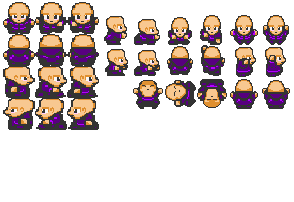
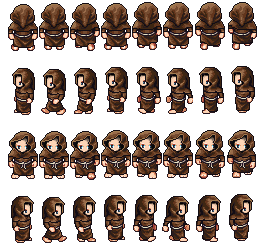
change character and enemy sprites

diff --git a/sprites.py b/sprites.py
@@ -8,10 +8,10 @@ class Spritesheet:
     def __init__(self, file):
         self.sheet = pygame.image.load(file).convert()
 
-    def get_sprite(self, x, y, width, height):
+    def get_sprite(self, x, y, width, height, color=WHITE):
         sprite = pygame.Surface([width, height])
         sprite.blit(self.sheet, (0, 0), (x, y, width, height))
-        sprite.set_colorkey(BLACK)
+        sprite.set_colorkey(color)
         return sprite
 
 
@@ -39,21 +39,37 @@ class Player(pygame.sprite.Sprite):
         self.rect.x = self.x
         self.rect.y = self.y
 
-        self.down_animations = [self.game.character_spritesheet.get_sprite(3, 2, self.width, self.height),
-                                self.game.character_spritesheet.get_sprite(35, 2, self.width, self.height),
-                                self.game.character_spritesheet.get_sprite(68, 2, self.width, self.height)]
+        self.up_animations = [self.game.character_spritesheet.get_sprite(0, 0, 38, 52),
+                              self.game.character_spritesheet.get_sprite(38, 0, 32, 50),
+                              self.game.character_spritesheet.get_sprite(69, 0, 32, 50),
+                              self.game.character_spritesheet.get_sprite(131, 0, 32, 50),
+                              self.game.character_spritesheet.get_sprite(162, 0, 32, 50),
+                              self.game.character_spritesheet.get_sprite(194, 0, 32, 50),
+                              self.game.character_spritesheet.get_sprite(228, 0, 32, 50)]
 
-        self.up_animations = [self.game.character_spritesheet.get_sprite(3, 34, self.width, self.height),
-                              self.game.character_spritesheet.get_sprite(35, 34, self.width, self.height),
-                              self.game.character_spritesheet.get_sprite(68, 34, self.width, self.height)]
+        self.left_animations = [self.game.character_spritesheet.get_sprite(0, 65, 38, 52),
+                                self.game.character_spritesheet.get_sprite(38, 65, 32, 50),
+                                self.game.character_spritesheet.get_sprite(69, 65, 32, 50),
+                                self.game.character_spritesheet.get_sprite(131, 65, 32, 50),
+                                self.game.character_spritesheet.get_sprite(162, 65, 32, 50),
+                                self.game.character_spritesheet.get_sprite(194, 65, 32, 50),
+                                self.game.character_spritesheet.get_sprite(228, 65, 32, 50)]
 
-        self.left_animations = [self.game.character_spritesheet.get_sprite(3, 98, self.width, self.height),
-                                self.game.character_spritesheet.get_sprite(35, 98, self.width, self.height),
-                                self.game.character_spritesheet.get_sprite(68, 98, self.width, self.height)]
+        self.down_animations = [self.game.character_spritesheet.get_sprite(0, 130, 38, 52),
+                                self.game.character_spritesheet.get_sprite(38, 130, 32, 50),
+                                self.game.character_spritesheet.get_sprite(69, 130, 32, 50),
+                                self.game.character_spritesheet.get_sprite(131, 130, 32, 50),
+                                self.game.character_spritesheet.get_sprite(162, 130, 32, 50),
+                                self.game.character_spritesheet.get_sprite(194, 130, 32, 50),
+                                self.game.character_spritesheet.get_sprite(228, 130, 32, 50)]
 
-        self.right_animations = [self.game.character_spritesheet.get_sprite(3, 66, self.width, self.height),
-                                 self.game.character_spritesheet.get_sprite(35, 66, self.width, self.height),
-                                 self.game.character_spritesheet.get_sprite(68, 66, self.width, self.height)]
+        self.right_animations = [self.game.character_spritesheet.get_sprite(0, 194, 38, 52),
+                                 self.game.character_spritesheet.get_sprite(38, 194, 32, 50),
+                                 self.game.character_spritesheet.get_sprite(69, 194, 32, 50),
+                                 self.game.character_spritesheet.get_sprite(131, 194, 32, 50),
+                                 self.game.character_spritesheet.get_sprite(162, 194, 32, 50),
+                                 self.game.character_spritesheet.get_sprite(194, 194, 32, 50),
+                                 self.game.character_spritesheet.get_sprite(228, 194, 32, 50)]
 
     def update(self):
         self.movement()
@@ -113,38 +129,38 @@ class Player(pygame.sprite.Sprite):
     def animate(self):
         if self.facing == 'down':
             if self.y_change == 0:
-                self.image = self.game.character_spritesheet.get_sprite(3, 2, self.width, self.height)
+                self.image = self.game.character_spritesheet.get_sprite(0, 130, 38, 52)
             else:
                 self.image = self.down_animations[math.floor(self.animation_loop)]
                 self.animation_loop += 0.1
-                if self.animation_loop >= 3:
+                if self.animation_loop >= 7:
                     self.animation_loop = 1
 
         if self.facing == 'up':
             if self.y_change == 0:
-                self.image = self.game.character_spritesheet.get_sprite(3, 34, self.width, self.height)
+                self.image = self.game.character_spritesheet.get_sprite(0, 0, 38, 52)
             else:
                 self.image = self.up_animations[math.floor(self.animation_loop)]
                 self.animation_loop += 0.1
-                if self.animation_loop >= 3:
+                if self.animation_loop >= 7:
                     self.animation_loop = 1
 
         if self.facing == 'left':
             if self.x_change == 0:
-                self.image = self.game.character_spritesheet.get_sprite(3, 98, self.width, self.height)
+                self.image = self.game.character_spritesheet.get_sprite(0, 65, 38, 52)
             else:
                 self.image = self.left_animations[math.floor(self.animation_loop)]
                 self.animation_loop += 0.1
-                if self.animation_loop >= 3:
+                if self.animation_loop >= 7:
                     self.animation_loop = 1
 
         if self.facing == 'right':
             if self.x_change == 0:
-                self.image = self.game.character_spritesheet.get_sprite(3, 66, self.width, self.height)
+                self.image = self.game.character_spritesheet.get_sprite(0, 194, 38, 52)
             else:
                 self.image = self.right_animations[math.floor(self.animation_loop)]
                 self.animation_loop += 0.1
-                if self.animation_loop >= 3:
+                if self.animation_loop >= 7:
                     self.animation_loop = 1
 
 
@@ -175,13 +191,15 @@ class Enemy(pygame.sprite.Sprite):
         self.rect.x = self.x
         self.rect.y = self.y
 
-        self.left_animations = [self.game.enemy_spritesheet.get_sprite(3, 98, self.width, self.height),
-                                self.game.enemy_spritesheet.get_sprite(35, 98, self.width, self.height),
-                                self.game.enemy_spritesheet.get_sprite(68, 98, self.width, self.height)]
+        self.left_animations = [self.game.enemy_spritesheet.get_sprite(10, 75, 36, 50),
+                                self.game.enemy_spritesheet.get_sprite(45, 75, 36, 50),
+                                self.game.enemy_spritesheet.get_sprite(10, 75, 36, 50),
+                                self.game.enemy_spritesheet.get_sprite(84, 75, 36, 50)]
 
-        self.right_animations = [self.game.enemy_spritesheet.get_sprite(3, 66, self.width, self.height),
-                                 self.game.enemy_spritesheet.get_sprite(35, 66, self.width, self.height),
-                                 self.game.enemy_spritesheet.get_sprite(68, 66, self.width, self.height)]
+        self.right_animations = [self.game.enemy_spritesheet.get_sprite(10, 205, 42, 50),
+                                 self.game.enemy_spritesheet.get_sprite(55, 205, 36, 50),
+                                 self.game.enemy_spritesheet.get_sprite(10, 205, 42, 50),
+                                 self.game.enemy_spritesheet.get_sprite(94, 205, 36, 50)]
 
     def update(self):
         self.movement()
@@ -210,20 +228,20 @@ class Enemy(pygame.sprite.Sprite):
     def animate(self):
         if self.facing == 'left':
             if self.x_change == 0:
-                self.image = self.game.enemy_spritesheet.get_sprite(3, 98, self.width, self.height)
+                self.image = self.game.enemy_spritesheet.get_sprite(10, 75, 36, 47)
             else:
                 self.image = self.left_animations[math.floor(self.animation_loop)]
                 self.animation_loop += 0.1
-                if self.animation_loop >= 3:
+                if self.animation_loop >= 4:
                     self.animation_loop = 1
 
         if self.facing == 'right':
             if self.x_change == 0:
-                self.image = self.game.enemy_spritesheet.get_sprite(3, 66, self.width, self.height)
+                self.image = self.game.enemy_spritesheet.get_sprite(10, 205, 36, 47)
             else:
                 self.image = self.right_animations[math.floor(self.animation_loop)]
                 self.animation_loop += 0.1
-                if self.animation_loop >= 3:
+                if self.animation_loop >= 4:
                     self.animation_loop = 1
 
 
@@ -310,29 +328,29 @@ class Attack(pygame.sprite.Sprite):
         self.rect.x = self.x
         self.rect.y = self.y
 
-        self.right_animations = [self.game.attack_spritesheet.get_sprite(0, 64, self.width, self.height),
-                                 self.game.attack_spritesheet.get_sprite(32, 64, self.width, self.height),
-                                 self.game.attack_spritesheet.get_sprite(64, 64, self.width, self.height),
-                                 self.game.attack_spritesheet.get_sprite(96, 64, self.width, self.height),
-                                 self.game.attack_spritesheet.get_sprite(128, 64, self.width, self.height)]
+        self.right_animations = [self.game.attack_spritesheet.get_sprite(0, 64, self.width, self.height, BLACK),
+                                 self.game.attack_spritesheet.get_sprite(30, 64, self.width, self.height, BLACK),
+                                 self.game.attack_spritesheet.get_sprite(64, 64, self.width, self.height, BLACK),
+                                 self.game.attack_spritesheet.get_sprite(96, 64, self.width, self.height, BLACK),
+                                 self.game.attack_spritesheet.get_sprite(128, 64, self.width, self.height, BLACK)]
 
-        self.down_animations = [self.game.attack_spritesheet.get_sprite(0, 32, self.width, self.height),
-                                self.game.attack_spritesheet.get_sprite(32, 32, self.width, self.height),
-                                self.game.attack_spritesheet.get_sprite(64, 32, self.width, self.height),
-                                self.game.attack_spritesheet.get_sprite(96, 32, self.width, self.height),
-                                self.game.attack_spritesheet.get_sprite(128, 32, self.width, self.height)]
+        self.down_animations = [self.game.attack_spritesheet.get_sprite(0, 30, self.width, self.height, BLACK),
+                                self.game.attack_spritesheet.get_sprite(30, 30, self.width, self.height, BLACK),
+                                self.game.attack_spritesheet.get_sprite(64, 30, self.width, self.height, BLACK),
+                                self.game.attack_spritesheet.get_sprite(96, 30, self.width, self.height, BLACK),
+                                self.game.attack_spritesheet.get_sprite(128, 30, self.width, self.height, BLACK)]
 
-        self.left_animations = [self.game.attack_spritesheet.get_sprite(0, 96, self.width, self.height),
-                                self.game.attack_spritesheet.get_sprite(32, 96, self.width, self.height),
-                                self.game.attack_spritesheet.get_sprite(64, 96, self.width, self.height),
-                                self.game.attack_spritesheet.get_sprite(96, 96, self.width, self.height),
-                                self.game.attack_spritesheet.get_sprite(128, 96, self.width, self.height)]
+        self.left_animations = [self.game.attack_spritesheet.get_sprite(0, 96, self.width, self.height, BLACK),
+                                self.game.attack_spritesheet.get_sprite(30, 96, self.width, self.height, BLACK),
+                                self.game.attack_spritesheet.get_sprite(64, 96, self.width, self.height, BLACK),
+                                self.game.attack_spritesheet.get_sprite(96, 96, self.width, self.height, BLACK),
+                                self.game.attack_spritesheet.get_sprite(128, 96, self.width, self.height, BLACK)]
 
-        self.up_animations = [self.game.attack_spritesheet.get_sprite(0, 0, self.width, self.height),
-                              self.game.attack_spritesheet.get_sprite(32, 0, self.width, self.height),
-                              self.game.attack_spritesheet.get_sprite(64, 0, self.width, self.height),
-                              self.game.attack_spritesheet.get_sprite(96, 0, self.width, self.height),
-                              self.game.attack_spritesheet.get_sprite(128, 0, self.width, self.height)]
+        self.up_animations = [self.game.attack_spritesheet.get_sprite(0, 0, self.width, self.height, BLACK),
+                              self.game.attack_spritesheet.get_sprite(30, 0, self.width, self.height, BLACK),
+                              self.game.attack_spritesheet.get_sprite(64, 0, self.width, self.height, BLACK),
+                              self.game.attack_spritesheet.get_sprite(96, 0, self.width, self.height, BLACK),
+                              self.game.attack_spritesheet.get_sprite(128, 0, self.width, self.height, BLACK)]
 
     def update(self):
        self.animate()
